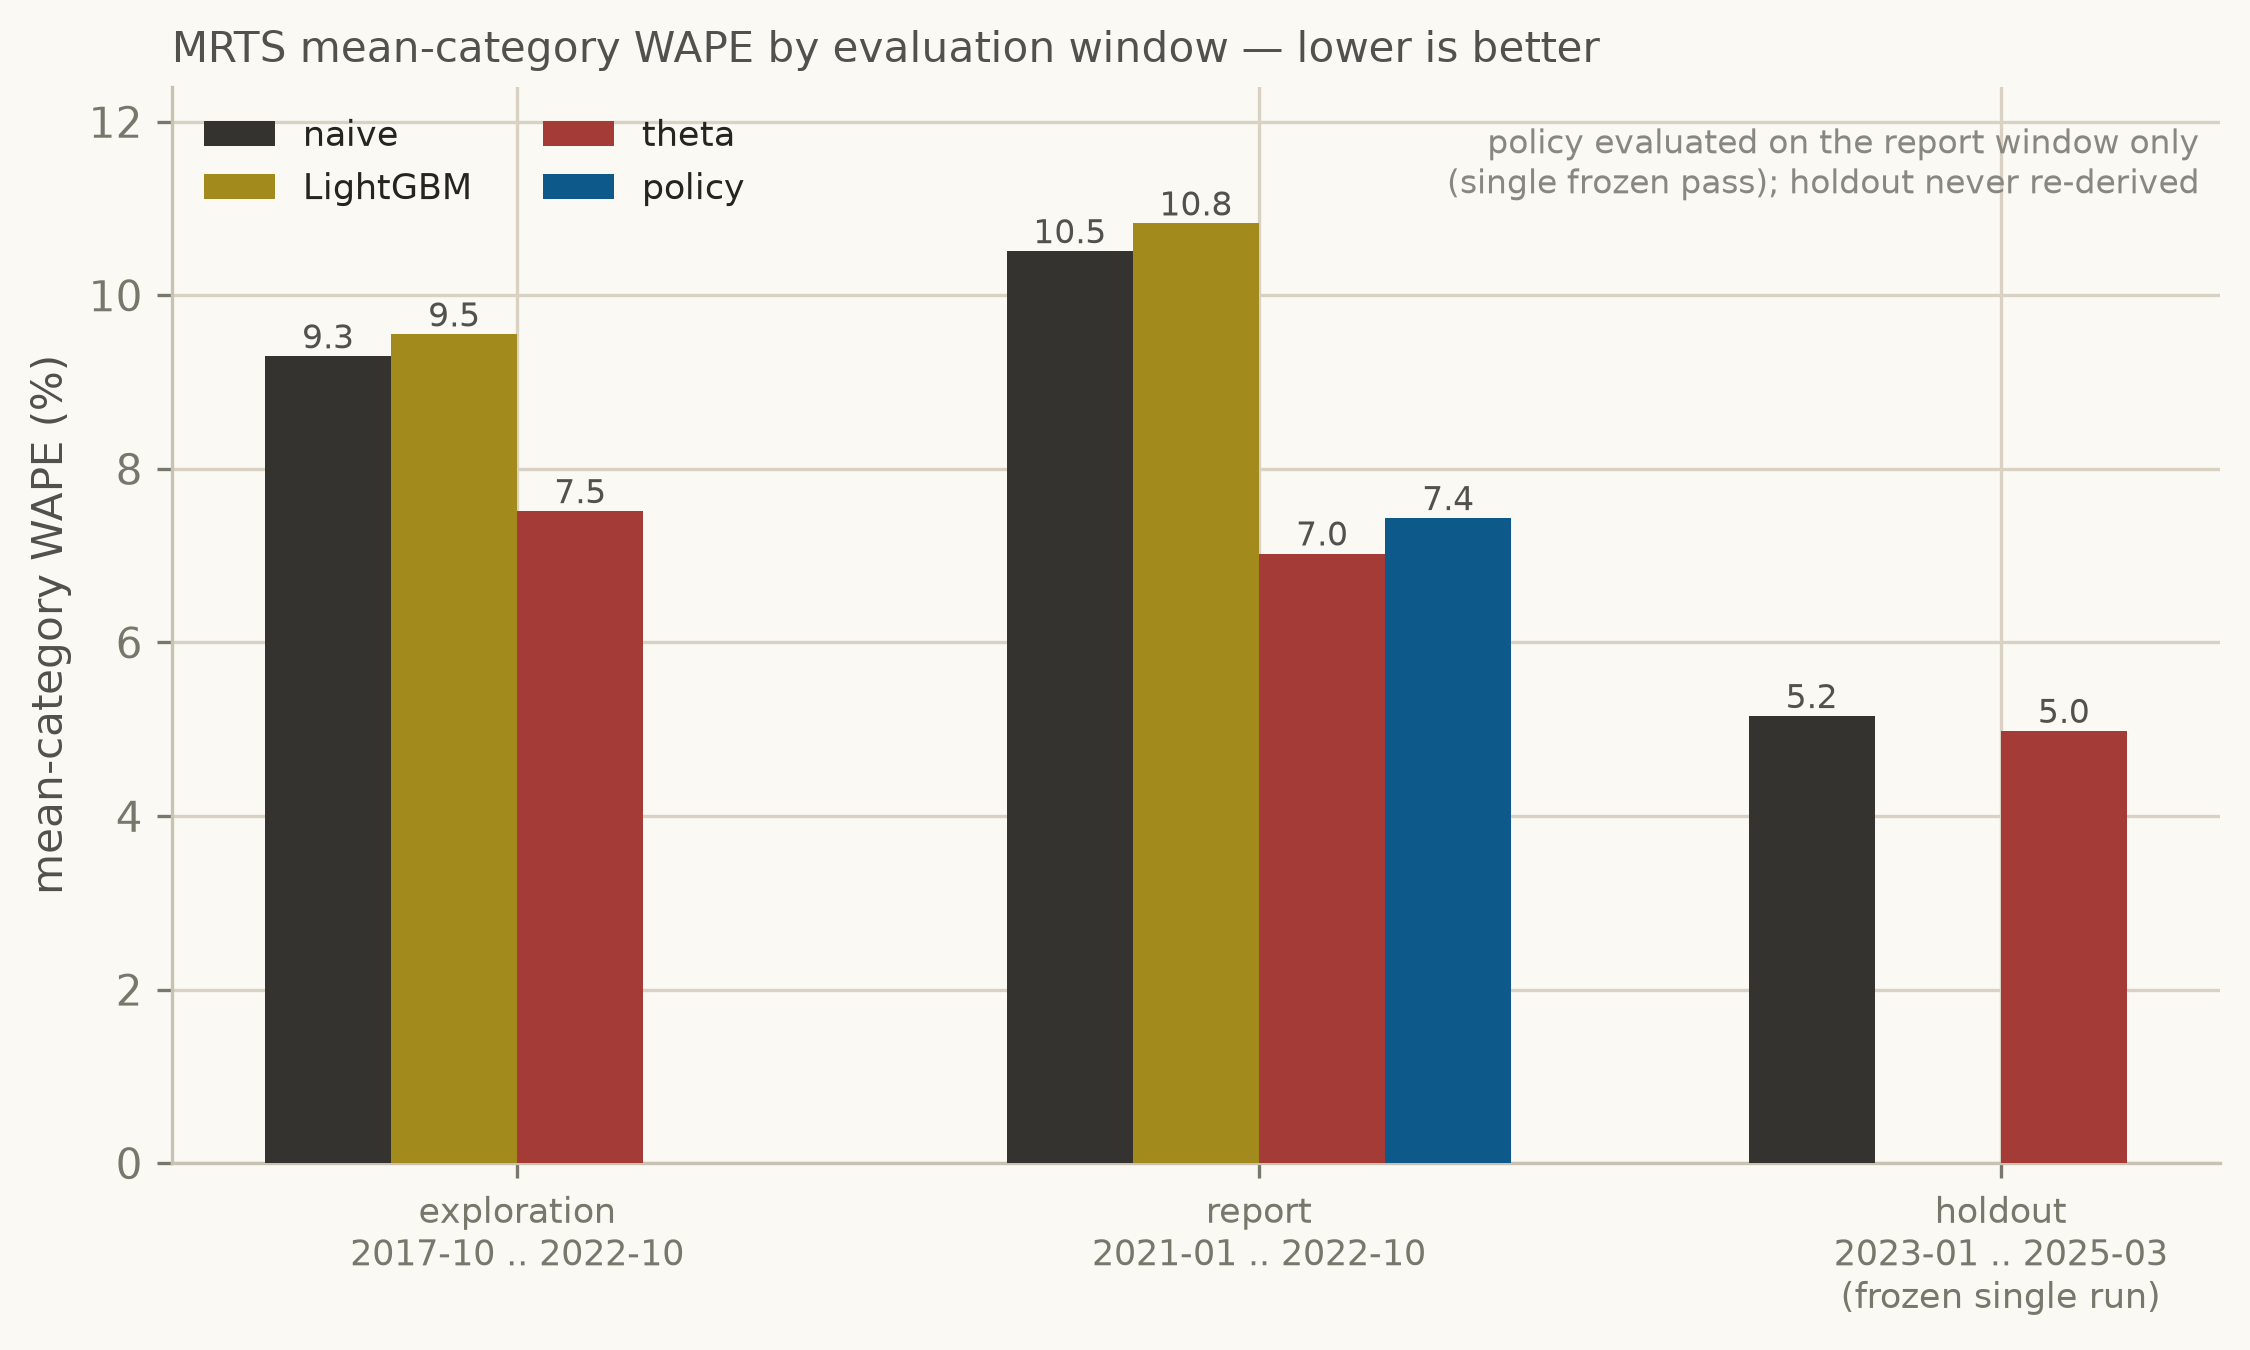
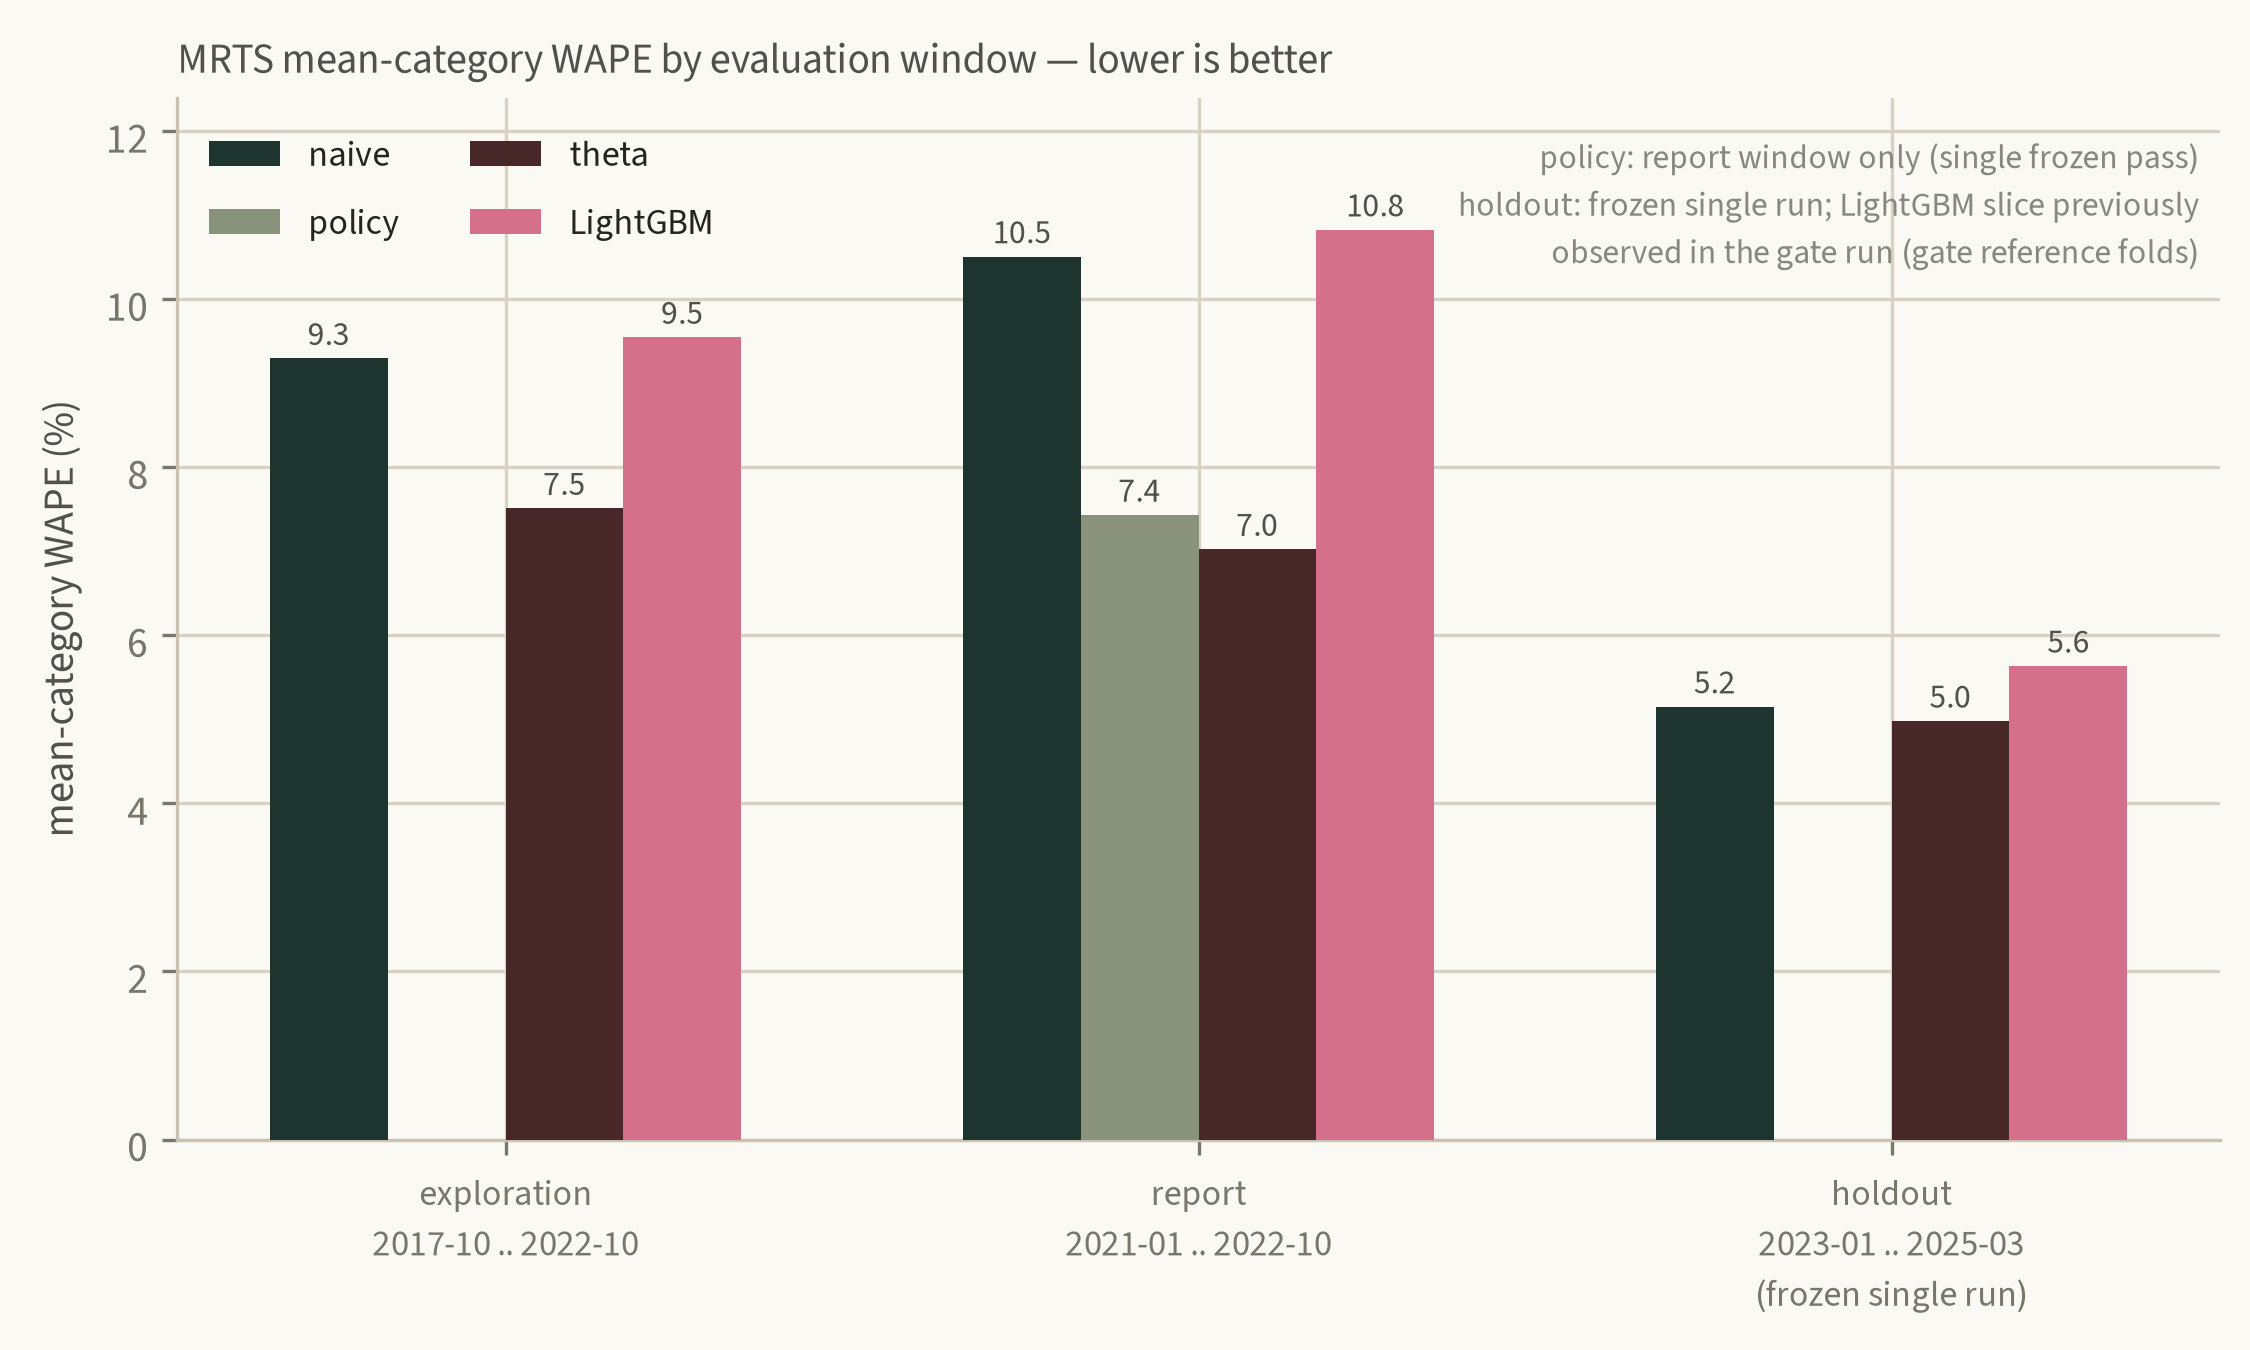
Research windows: show the holdout LightGBM gate slice, label its provenance
The evidence summary now carries the holdout LightGBM row from the
satellite's predeclared reaggregation (5.64%, 5/11, "previously
observed"), so the three-model deployment comparison is visible in the
figure, the story page, and the README - each stating where the number
came from. Ch05 quotes the category count and the protocol.

diff --git a/frontend/src/content/story.ts b/frontend/src/content/story.ts
@@ -161,8 +161,8 @@ export const storyChapters: StoryChapter[] = [
         figure: {
           src: storyImage('research_windows.png'),
           caption:
-            'Mean-category WAPE by evaluation window (lower is better): theta beats naive on every one — 7.51% vs 9.30% exploration, 7.02% vs 10.51% report, 4.98% vs 5.15% on the single frozen holdout run. The regime-switch policy appears on the report window only (7.43%).',
-          alt: 'Grouped bar chart of mean-category WAPE for naive, global LightGBM, theta, and the regime-switch policy across the exploration, report, and holdout windows.',
+            'Mean-category WAPE by evaluation window (lower is better): theta beats naive on every one — 7.51% vs 9.30% exploration, 7.02% vs 10.51% report, 4.98% vs 5.15% on the single frozen holdout run. The holdout panel also carries LightGBM’s gate slice (5.64%, 5/11), previously observed in the gate run. The regime-switch policy appears on the report window only (7.43%).',
+          alt: 'Grouped bar chart of mean-category WAPE for naive, global LightGBM, theta, and the regime-switch policy across the exploration, report, and holdout windows; the policy appears on the report window only, and the holdout shows the frozen single run plus the previously observed LightGBM gate slice.',
         },
       },
       {
@@ -171,7 +171,7 @@ export const storyChapters: StoryChapter[] = [
       },
     ],
     evidence: {
-      label: 'window summary (frozen, 9 rows)',
+      label: 'window summary (frozen, 10 rows)',
       href: platformDoc('data/v2/evidence/mrts_research_windows/mrts_window_summary.json'),
     },
   },
@@ -189,7 +189,7 @@ export const storyChapters: StoryChapter[] = [
       },
       {
         kind: 'paragraph',
-        text: 'I find this the most satisfying negative result in the project. The holdout was computed once, written down, and never re-read — no second look, no criterion adjustment. For the record: theta’s 4.98% was still better than the frozen gate’s LightGBM scored on those same origins (5.64%), and the serving decision stayed fail-closed. Naive stands.',
+        text: 'I find this the most satisfying negative result in the project. The holdout was computed once, written down, and never re-read — no second look, no criterion adjustment. For the record: theta’s 4.98% was still better than the frozen gate’s LightGBM scored on those same origins — 5.64%, with only 5 of 11 categories improved, re-aggregated from the stored gate folds under a predeclared reporting-only protocol — and the serving decision stayed fail-closed. Naive stands.',
       },
     ],
     evidence: {

diff --git a/README.md b/README.md
@@ -238,10 +238,10 @@ H5 was the hypothesis I almost skipped: the theta method (Assimakopoulos & Nikol
 It won. On exploration origins (2017-10..2022-10) it beat naive in 9 of 11 categories — 7.51% vs 9.30% mean-category WAPE. On the report window (2021-01..2022-10) it won 10 of 11 — 7.02% vs 10.51%.
 
 <p align="center">
-  <img src="docs/images/story/research_windows.png" alt="Grouped bar chart of mean-category WAPE for naive, global LightGBM, theta, and the regime-switch policy across the exploration, report, and holdout windows" width="720">
+  <img src="docs/images/story/research_windows.png" alt="Grouped bar chart of mean-category WAPE for naive, global LightGBM, theta, and the regime-switch policy across the exploration, report, and holdout windows; the policy appears on the report window only, and the holdout shows the frozen single run plus the previously observed LightGBM gate slice" width="720">
 </p>
 
-*Mean-category WAPE by evaluation window (lower is better): theta beats naive on every one — 7.51% vs 9.30% exploration, 7.02% vs 10.51% report, 4.98% vs 5.15% on the single frozen holdout run. The regime-switch policy appears on the report window only (7.43%).*
+*Mean-category WAPE by evaluation window (lower is better): theta beats naive on every one — 7.51% vs 9.30% exploration, 7.02% vs 10.51% report, 4.98% vs 5.15% on the single frozen holdout run. The holdout panel also carries LightGBM's gate slice (5.64%, 5/11), previously observed in the gate run. The regime-switch policy appears on the report window only (7.43%).*
 
 The mechanism is legible: theta tracks trend at short horizons, and at the one-month horizon through the 2021–22 inflationary rebound it scored 3.1% where naive carried 11.5% — naive was still anchoring on year-ago crash values. For the first time since the gate, a challenger had a case. ([window summary](data/v2/evidence/mrts_research_windows/mrts_window_summary.json))
 
@@ -251,7 +251,7 @@ The mechanism is legible: theta tracks trend at short horizons, and at the one-m
 
 The 2023–2025 origins had been reserved the whole investigation. One run, predeclared: theta needs ≥10 of 11 categories to beat naive for the case to continue. The result — 4.98% vs 5.15% mean-category WAPE, +0.17pp, with only 7 of 11 categories improved. Criterion 2 failed. Theta's dominance was regime-specific: real on volatile targets, gone on the settled ones.
 
-I find this the most satisfying negative result in the project. The holdout was computed once, written down, and never re-read — no second look, no criterion adjustment. For the record: theta's 4.98% was still better than the frozen gate's LightGBM scored on those same origins (5.64%), and the serving decision stayed fail-closed. Naive stands. ([holdout record](https://github.com/oleeveeuh/retailPRED-satellite/blob/main/FINDINGS.md))
+I find this the most satisfying negative result in the project. The holdout was computed once, written down, and never re-read — no second look, no criterion adjustment. For the record: theta's 4.98% was still better than the frozen gate's LightGBM scored on those same origins — 5.64%, with only 5 of 11 categories improved, re-aggregated from the stored gate folds under a predeclared reporting-only protocol — and the serving decision stayed fail-closed. Naive stands. ([holdout record](https://github.com/oleeveeuh/retailPRED-satellite/blob/main/FINDINGS.md))
 
 ### 06 — two questions about time
 
